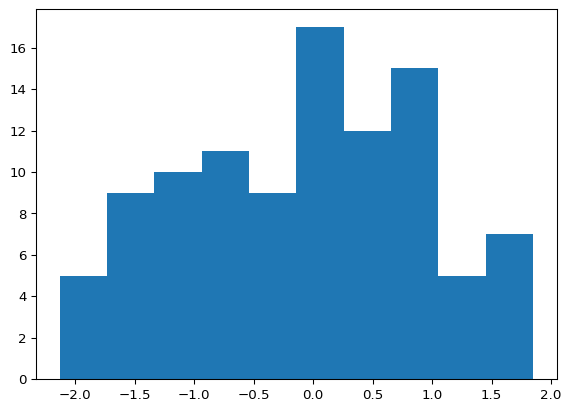
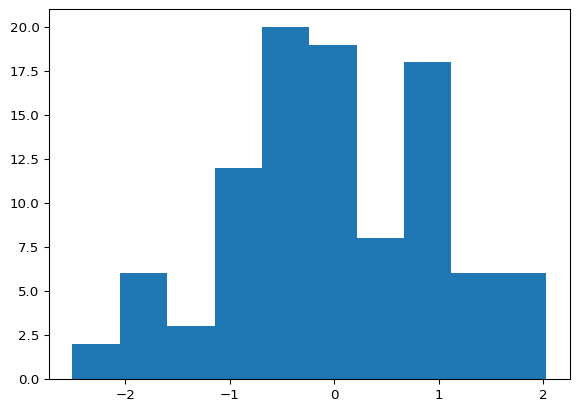
Built site for gh-pages

diff --git a/resume.html b/resume.html
@@ -217,7 +217,7 @@ ul.task-list li input[type="checkbox"] {
   <li><a href="#american-allegiance-of-education-co-founder" id="toc-american-allegiance-of-education-co-founder" class="nav-link" data-scroll-target="#american-allegiance-of-education-co-founder">American Allegiance of Education (Co-Founder)</a></li>
   <li><a href="#washington-high-school-math-center-volunteer" id="toc-washington-high-school-math-center-volunteer" class="nav-link" data-scroll-target="#washington-high-school-math-center-volunteer">Washington High School (Math Center Volunteer)</a></li>
   </ul></li>
-  <li><a href="#skills" id="toc-skills" class="nav-link" data-scroll-target="#skills">Skills</a></li>
+  <li><a href="#skills-additional-info" id="toc-skills-additional-info" class="nav-link" data-scroll-target="#skills-additional-info">Skills &amp; Additional Info</a></li>
   </ul>
 </nav>
     </div>
@@ -410,8 +410,8 @@ August 2018 – June 2021 | Fremont CA
 </ul>
 </section>
 </section>
-<section id="skills" class="level2 timeline skills">
-<h2 class="anchored" data-anchor-id="skills">Skills</h2>
+<section id="skills-additional-info" class="level2 timeline skills">
+<h2 class="anchored" data-anchor-id="skills-additional-info">Skills &amp; Additional Info</h2>
 <div class="timeline-item">
 <ul>
 <li><strong>Languages:</strong>
@@ -422,6 +422,7 @@ August 2018 – June 2021 | Fremont CA
 </ul></li>
 <li><strong>Tools:</strong> Git, Pandas, NumPy, scikit-learn, MS Office, LaTeX</li>
 <li><strong>Statistical Methods:</strong> Multivariate Data Analysis, Generalized Linear Models (GLMs), ANOVA, A/B Testing</li>
+<li><strong>Citizenship:</strong> U.S. Citizen</li>
 </ul>
 </div>
 </section>

diff --git a/units/unit1.html b/units/unit1.html
@@ -193,7 +193,7 @@ $$
 <p>This is an example of using qmd as the source document.</p>
 <section id="evaluated-python-code-chunk-with-a-plot" class="level2">
 <h2 class="anchored" data-anchor-id="evaluated-python-code-chunk-with-a-plot">Evaluated Python code chunk, with a plot</h2>
-<div id="d9c3d4b4" class="cell" data-execution_count="1">
+<div id="5e05d565" class="cell" data-execution_count="1">
 <details open="" class="code-fold">
 <summary>Code</summary>
 <div class="sourceCode cell-code" id="cb1"><pre class="sourceCode python code-with-copy"><code class="sourceCode python"><span id="cb1-1"><a href="#cb1-1" aria-hidden="true" tabindex="-1"></a><span class="im">import</span> numpy <span class="im">as</span> np</span>
@@ -211,7 +211,7 @@ $$
 </div>
 </div>
 <div class="cell-output cell-output-display" data-execution_count="1">
-<pre><code>np.float64(-0.08800795176660013)</code></pre>
+<pre><code>np.float64(-0.0238028604531922)</code></pre>
 </div>
 </div>
 </section>
@@ -273,7 +273,7 @@ Tip with Title
 </div>
 <div id="tabset-1-2" class="tab-pane" role="tabpanel" aria-labelledby="tabset-1-2-tab">
 <p>This code is executed.</p>
-<div id="5f270baf" class="cell" data-execution_count="2">
+<div id="dfec392e" class="cell" data-execution_count="2">
 <details open="" class="code-fold">
 <summary>Code</summary>
 <div class="sourceCode cell-code" id="cb4"><pre class="sourceCode python code-with-copy"><code class="sourceCode python"><span id="cb4-1"><a href="#cb4-1" aria-hidden="true" tabindex="-1"></a><span class="kw">def</span> fizz_buzz(num):</span>

diff --git a/units/unit3.html b/units/unit3.html
@@ -190,7 +190,7 @@ $$
 <p>This is an example of using qmd as the source document with pdf as one target. I’ve taken out the qmd stuff that doesn’t seem to render to pdf.</p>
 <section id="evaluated-python-code-chunk-with-a-plot" class="level2">
 <h2 class="anchored" data-anchor-id="evaluated-python-code-chunk-with-a-plot">Evaluated Python code chunk, with a plot</h2>
-<div id="ac7d6962" class="cell" data-execution_count="1">
+<div id="9efe3997" class="cell" data-execution_count="1">
 <details open="" class="code-fold">
 <summary>Code</summary>
 <div class="sourceCode cell-code" id="cb1"><pre class="sourceCode python code-with-copy"><code class="sourceCode python"><span id="cb1-1"><a href="#cb1-1" aria-hidden="true" tabindex="-1"></a><span class="im">import</span> numpy <span class="im">as</span> np</span>
@@ -208,7 +208,7 @@ $$
 </div>
 </div>
 <div class="cell-output cell-output-display" data-execution_count="1">
-<pre><code>np.float64(0.06268351823318222)</code></pre>
+<pre><code>np.float64(0.17574737127415252)</code></pre>
 </div>
 </div>
 </section>
